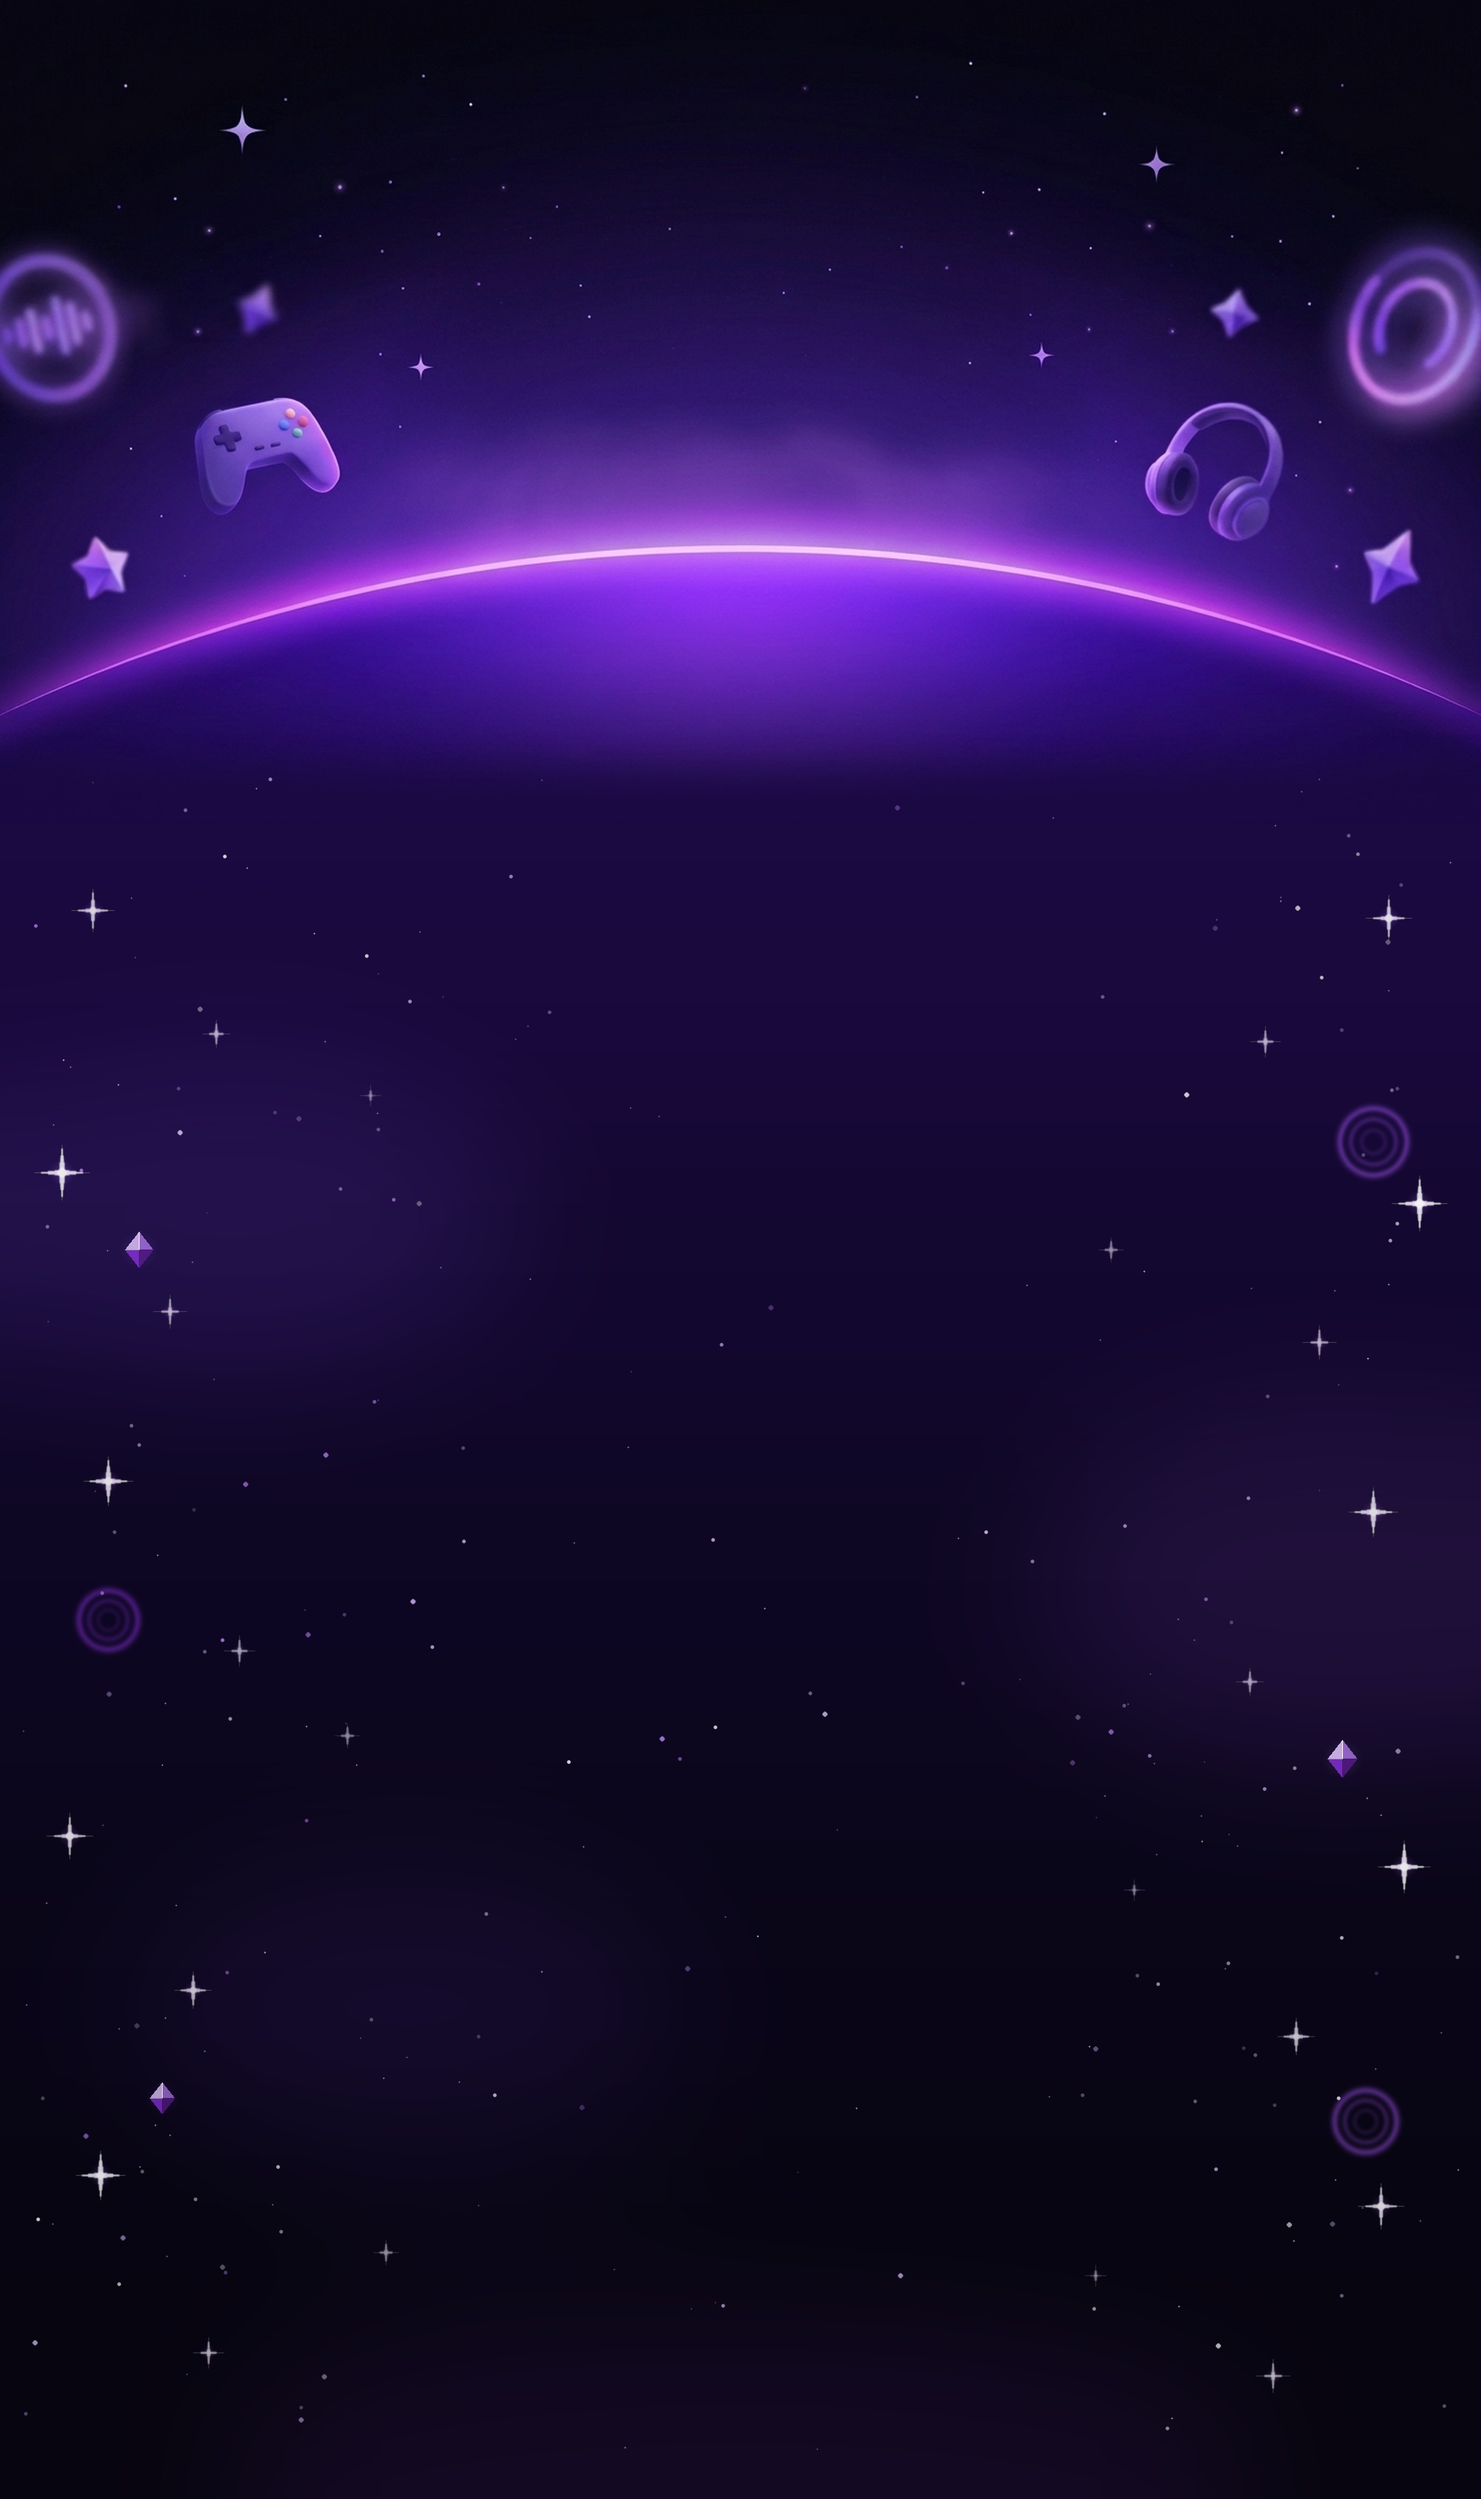
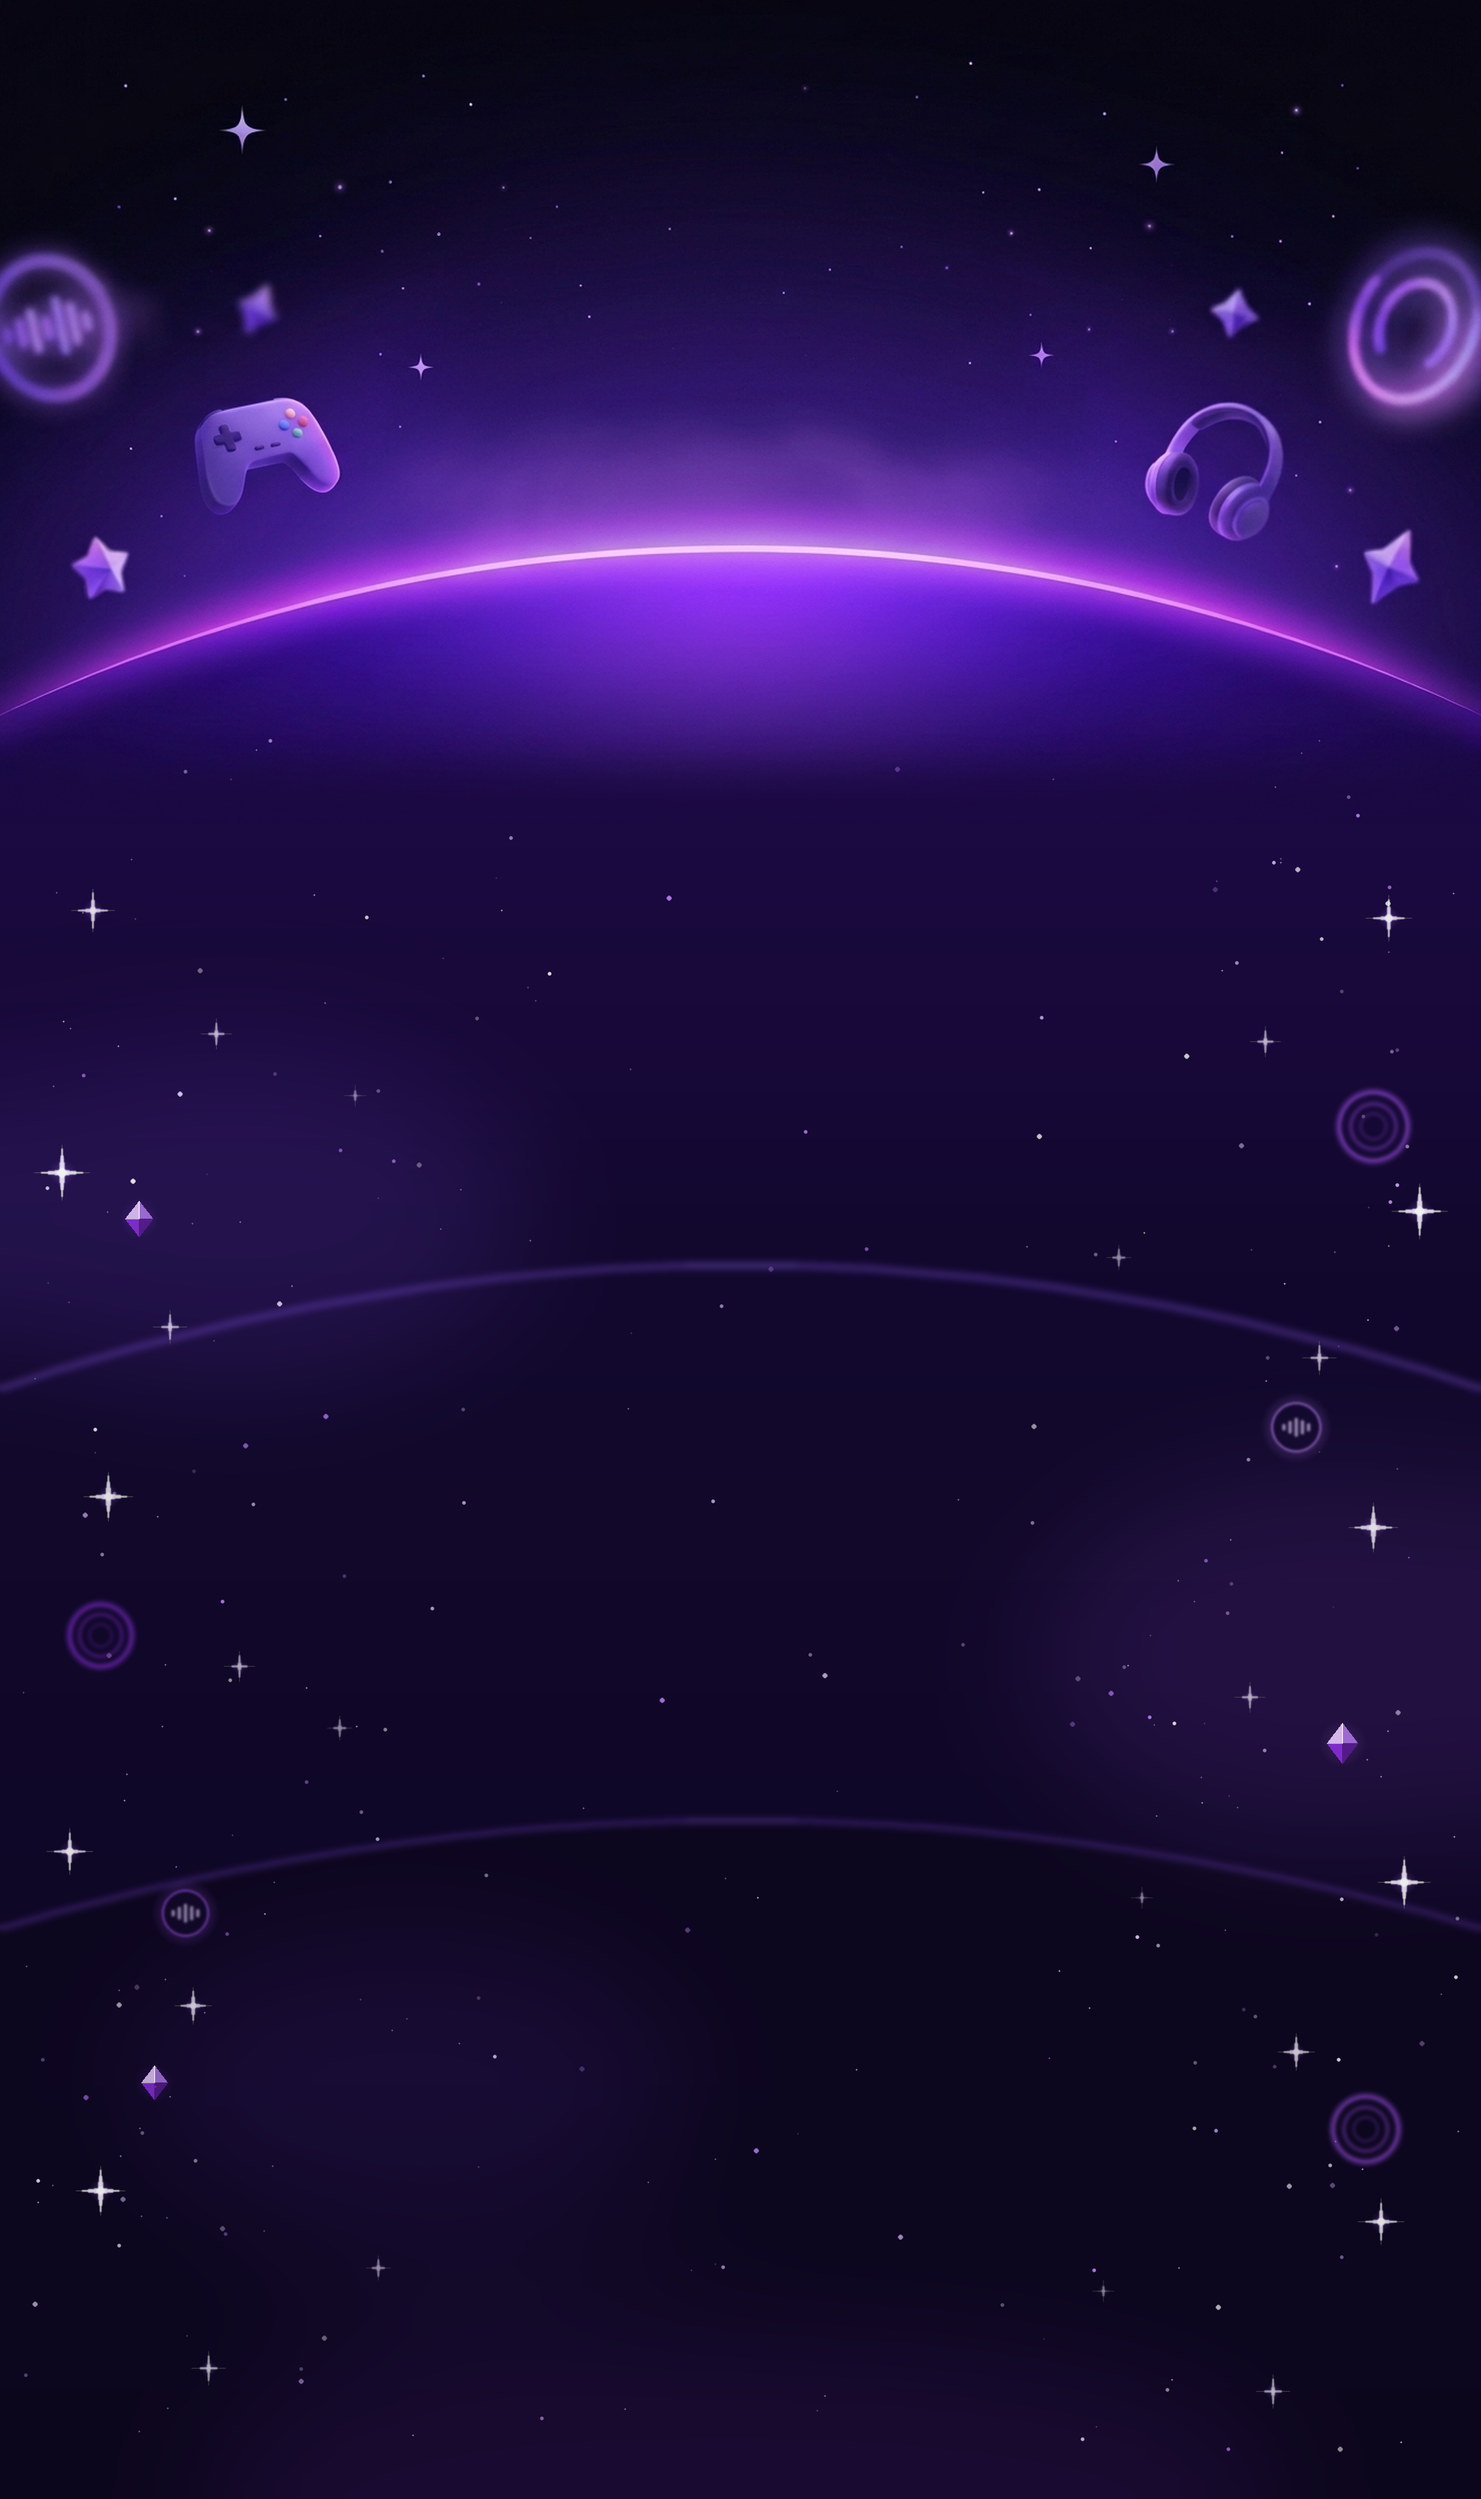
feat(landing): implement Discord-style multi-layered background with smooth scroll-driven parallax descent

diff --git a/src/components/LandingPage.jsx b/src/components/LandingPage.jsx
@@ -1,4 +1,4 @@
-import React, { useState } from 'react';
+import React, { useState, useEffect, useRef } from 'react';
 import { useNavigate, Link } from 'react-router-dom';
 import {
   Download,
@@ -23,6 +23,7 @@ export const LandingPage = () => {
   const navigate = useNavigate();
   const { isAuthenticated } = useAuth();
   const [downloadSuccess, setDownloadSuccess] = useState(false);
+  const bgLayerRef = useRef(null);
 
   const directExeUrl = '/Voys_1.0.0_x64-setup.exe';
 
@@ -37,17 +38,74 @@ export const LandingPage = () => {
     document.body.removeChild(link);
   };
 
+  // Discord-style background parallax descent:
+  // As the user scrolls down the webpage, the 3240px background slowly and smoothly
+  // pans down through its celestial layers, aligning with each section of content.
+  useEffect(() => {
+    let ticking = false;
+    let currentScale = Math.max(1, window.innerWidth / 1920);
+    let bgW = 1920 * currentScale;
+    let bgH = 3240 * currentScale;
+
+    const updateDimensionsAndPosition = () => {
+      currentScale = Math.max(1, window.innerWidth / 1920);
+      bgW = 1920 * currentScale;
+      bgH = 3240 * currentScale;
+      if (bgLayerRef.current) {
+        bgLayerRef.current.style.width = `${bgW}px`;
+        bgLayerRef.current.style.height = `${bgH}px`;
+      }
+      onScroll();
+    };
+
+    const onScroll = () => {
+      if (!ticking) {
+        window.requestAnimationFrame(() => {
+          if (bgLayerRef.current) {
+            const scrollY = window.scrollY || window.pageYOffset || document.documentElement.scrollTop;
+            const scrollHeight = document.documentElement.scrollHeight;
+            const clientHeight = window.innerHeight;
+            const maxScroll = Math.max(1, scrollHeight - clientHeight);
+            const progress = Math.min(1, Math.max(0, scrollY / maxScroll));
+            const maxTravel = Math.max(0, bgH - clientHeight);
+            const targetY = -progress * maxTravel;
+            bgLayerRef.current.style.transform = `translate3d(-50%, ${targetY}px, 0)`;
+          }
+          ticking = false;
+        });
+        ticking = true;
+      }
+    };
+
+    updateDimensionsAndPosition();
+    window.addEventListener('scroll', onScroll, { passive: true });
+    window.addEventListener('resize', updateDimensionsAndPosition);
+
+    return () => {
+      window.removeEventListener('scroll', onScroll);
+      window.removeEventListener('resize', updateDimensionsAndPosition);
+    };
+  }, []);
+
   return (
-    <div
-      className="w-full min-h-[3240px] text-gray-200 selection:bg-[#8B51FF]/40 selection:text-white font-sans antialiased overflow-x-hidden relative flex flex-col justify-between"
-      style={{
-        backgroundImage: "url('/voys_hero_bg.jpg')",
-        backgroundColor: '#07050f',
-        backgroundSize: '1920px 3240px',
-        backgroundPosition: 'top center',
-        backgroundRepeat: 'no-repeat',
-      }}
-    >
+    <div className="w-full min-h-[3240px] text-gray-200 selection:bg-[#8B51FF]/40 selection:text-white font-sans antialiased overflow-x-hidden relative flex flex-col justify-between bg-[#07050f] scroll-smooth">
+      {/* Discord-style Parallax Background: Fixed viewport canvas that slowly descends as user scrolls */}
+      <div className="fixed inset-0 w-full h-full pointer-events-none overflow-hidden z-0">
+        <div
+          ref={bgLayerRef}
+          className="absolute left-1/2 will-change-transform"
+          style={{
+            width: '1920px',
+            height: '3240px',
+            backgroundImage: "url('/voys_hero_bg.jpg')",
+            backgroundSize: '100% 100%',
+            backgroundRepeat: 'no-repeat',
+            transform: 'translate3d(-50%, 0px, 0)',
+          }}
+        />
+        {/* Subtle ambient lighting vignette overlay */}
+        <div className="absolute inset-0 bg-gradient-to-b from-transparent via-transparent to-[#07050f]/60 pointer-events-none" />
+      </div>
       {/* 1. Header / Navbar */}
       <header className="sticky top-0 z-50 bg-[#07050f]/60 backdrop-blur-md pt-4 sm:pt-6 pb-3 border-b border-white/[0.04]">
         <div className="w-full px-6 sm:px-10 lg:px-16 h-14 sm:h-16 flex items-center justify-between relative">

diff --git a/src/index.css b/src/index.css
@@ -14,6 +14,7 @@ html {
   -webkit-font-smoothing: antialiased;
   -moz-osx-font-smoothing: grayscale;
   font-feature-settings: 'locl' 1;
+  scroll-behavior: smooth;
 }
 
 body {
